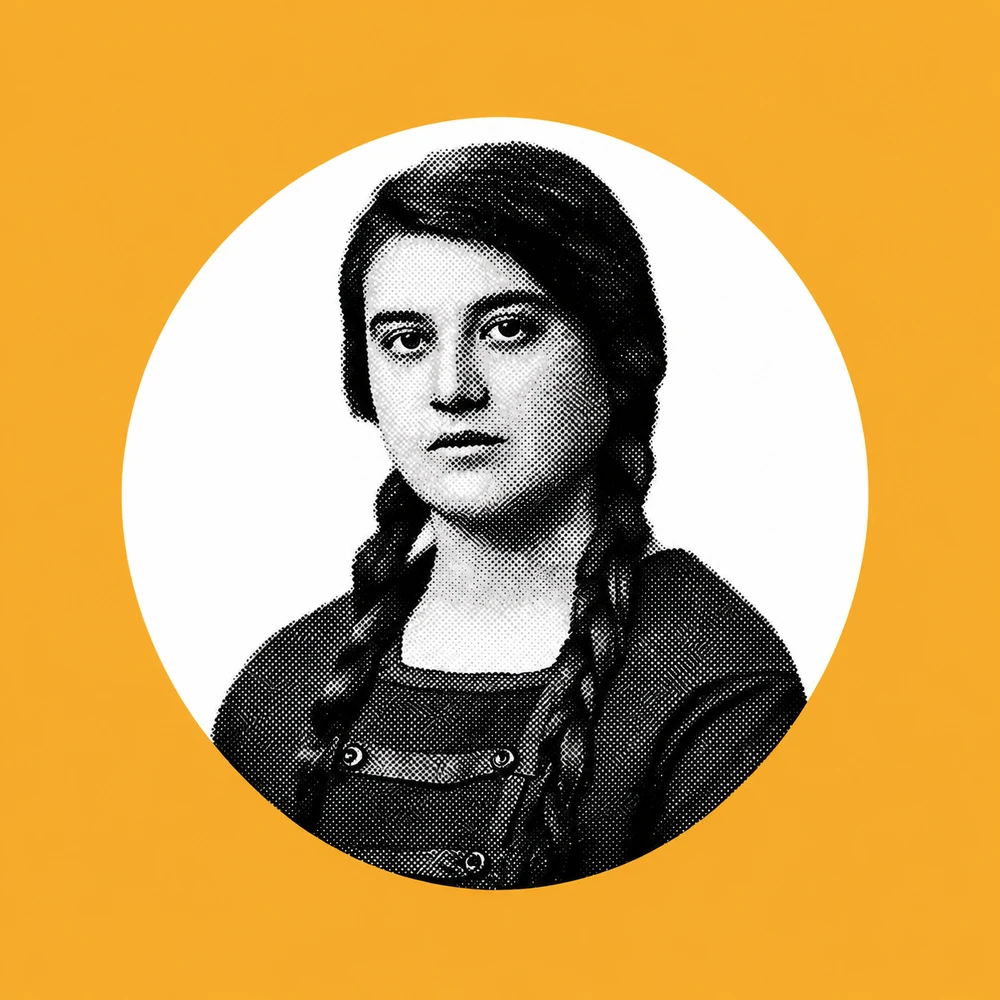
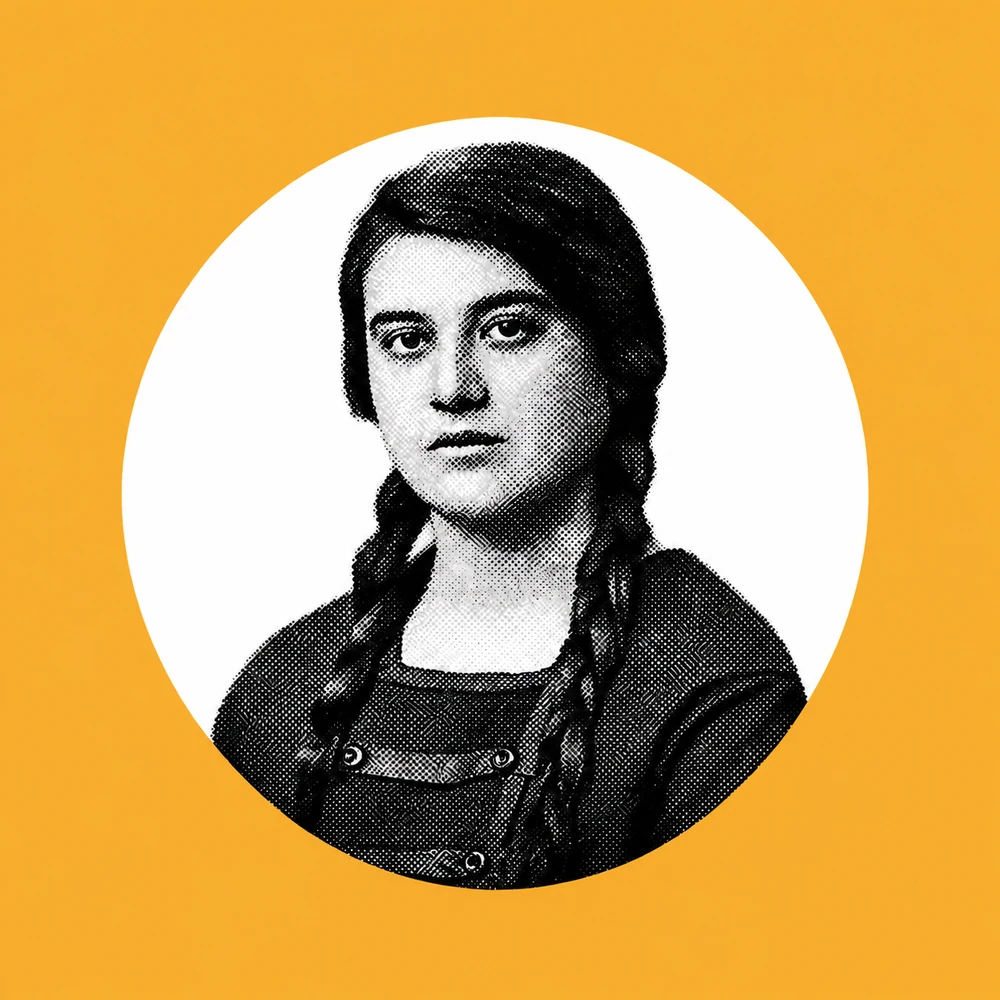
Publica la nueva imagen de El Libro Mágico de María Moliner

diff --git a/catalogo.html b/catalogo.html
@@ -14,7 +14,7 @@
       <a class="brand" href="index.html" aria-label="La Paralela · Ocio y Escuela. Inicio"><img src="assets/images/imagotipo.png" alt="" width="260" height="181"><span><strong>LA PARALELA</strong><small>OCIO Y ESCUELA</small></span></a>
       <button class="menu-toggle" type="button" aria-expanded="false" aria-controls="main-nav" hidden><span>Menú</span><span class="menu-lines" aria-hidden="true"></span></button>
       <nav class="main-nav" id="main-nav" aria-label="Navegación principal"><a href="index.html">Inicio</a><a href="asistencia-tecnica.html">Asistencia técnica</a><a href="catalogo.html" aria-current="page">Catálogo</a><a href="iniciativas.html">Iniciativas propias</a><a href="recursos-digitales.html">Recursos digitales</a><a href="la-paralela.html">La Paralela</a><a href="contacto.html">Contacto</a></nav>
-    </div></header><main id="contenido"><section class="page-hero page-hero--symbol-top container"><div><img class="section-hero-symbol" src="assets/icons/catalogo.svg" alt="" width="100" height="100"><h1 aria-label="Actividades para la dinamización local.">Actividades para<br>la dinamizaci<span class="ofelia-char ofelia-weight-800 ofelia-acute" style="--ofelia-width-adjust:-0.012000em;--ofelia-center:0.304688em;--ofelia-advance:0.612000em;--ofelia-half-box:0.660000em;"><span class="ofelia-source">ó</span><span class="ofelia-paint" aria-hidden="true" data-base="o"></span></span>n local.</h1><p class="lead">Actividades listas para incorporar a la programación de cada entidad, pensadas para distintos públicos y necesidades. Actividades que transforman espacios, trabajan valores y favorecen la participación vecinal.</p></div></section><section class="container catalog-list" aria-label="Actividades"><article class="catalog-story"><div class="catalog-media"><span class="catalog-item-number" aria-hidden="true">1.</span><img class="cover-art" src="assets/images/catalogo-mi-primera-aplicacion.webp" alt="Portada de Mi Primera Aplicación" loading="lazy" decoding="async" width="1000" height="1000"></div><div class="catalog-copy"><p class="eyebrow activity-type">Taller práctico</p><h2 aria-label="Mi Primera Aplicación"><a href="actividad-mi-primera-aplicacion.html">Mi Primera <span class="catalog-title-word">Aplicaci<span class="ofelia-char ofelia-weight-800 ofelia-acute" style="--ofelia-width-adjust:-0.012000em;--ofelia-center:0.304688em;--ofelia-advance:0.612000em;--ofelia-half-box:0.660000em;"><span class="ofelia-source">ó</span><span class="ofelia-paint" aria-hidden="true" data-base="o"></span></span>n</span></a></h2><p>Crear pequeñas aplicaciones con inteligencia artificial utilizando solo el teléfono móvil.</p><p class="price">Desde 329 € IVA incluido</p><a class="text-link" href="actividad-mi-primera-aplicacion.html">Ver la propuesta <span class="link-arrow" aria-hidden="true"></span></a></div></article><article class="catalog-story"><div class="catalog-media"><span class="catalog-item-number" aria-hidden="true">2.</span><img class="cover-art" src="assets/images/catalogo-escape-room.webp?v=d45742772ae4" alt="Retrato de María Moliner sobre fondo amarillo" loading="lazy" decoding="async" width="1000" height="1000"></div><div class="catalog-copy"><p class="eyebrow activity-type">Escape room en la biblioteca</p><h2 aria-label="El Libro Mágico de María Moliner"><a href="actividad-escape-room.html">El Libro <span class="catalog-title-word">M<span class="ofelia-char ofelia-weight-800 ofelia-acute" style="--ofelia-width-adjust:-0.044000em;--ofelia-center:0.296875em;--ofelia-advance:0.584000em;--ofelia-half-box:0.660000em;"><span class="ofelia-source">á</span><span class="ofelia-paint" aria-hidden="true" data-base="a"></span></span>gico</span> de <span class="catalog-title-word">Mar<span class="ofelia-char ofelia-weight-800 ofelia-acute ofelia-dotless" style="--ofelia-width-adjust:0.067000em;--ofelia-center:0.148438em;--ofelia-advance:0.303000em;--ofelia-half-box:0.660000em;"><span class="ofelia-source">í</span><span class="ofelia-paint" aria-hidden="true" data-base="i"></span></span>a</span> Moliner</a></h2><p>Diseñado específicamente para la animación a la lectura, la promoción del uso de las bibliotecas y la igualdad de género.</p><p class="price">Desde 550 € IVA incluido</p><a class="text-link" href="actividad-escape-room.html">Ver la propuesta <span class="link-arrow" aria-hidden="true"></span></a></div></article><article class="catalog-story"><div class="catalog-media"><span class="catalog-item-number" aria-hidden="true">3.</span><img class="cover-art" src="assets/images/catalogo-presente-perfecto.webp" alt="Portada de Presente Perfecto" loading="lazy" decoding="async" width="1000" height="1000"></div><div class="catalog-copy"><p class="eyebrow activity-type">Yincana intergeneracional</p><h2><a href="actividad-presente-perfecto.html">Presente Perfecto</a></h2><p>Diseñada para conectar a jóvenes y mayores a través de la música y los juegos propios de cada generación.</p><p class="price">Desde 880 € IVA incluido</p><a class="text-link" href="actividad-presente-perfecto.html">Ver la propuesta <span class="link-arrow" aria-hidden="true"></span></a></div></article><article class="catalog-story"><div class="catalog-media"><span class="catalog-item-number" aria-hidden="true">4.</span><img class="cover-art" src="assets/images/catalogo-calle-infierno.webp" alt="Portada de La Calle del Infierno" loading="lazy" decoding="async" width="1000" height="1000"></div><div class="catalog-copy"><p class="eyebrow activity-type">Instalación teatral interactiva</p><h2><a href="actividad-calle-infierno.html">La Calle del Infierno</a></h2><p>Espectáculo inmersivo de gran formato que recrea una feria tradicional mediante carpas de juego interactivo y pases de circo al estilo «freak show» para toda la familia.</p><p class="price">Desde 880 € IVA incluido</p><a class="text-link" href="actividad-calle-infierno.html">Ver la propuesta <span class="link-arrow" aria-hidden="true"></span></a></div></article></section><section class="container related" aria-labelledby="catalogo-pdf-titulo"><h2 id="catalogo-pdf-titulo">Las cuatro actividades en un PDF</h2><div class="dossier-links"><a class="button dossier-download" href="assets/documents/catalogo-actividades-la-paralela.pdf" download="Catalogo_Actividades_La_Paralela.pdf" type="application/pdf">Descargar catálogo <span aria-hidden="true">↓</span></a></div></section><section class="contact-band"><div class="container contact-band-inner"><div><p class="eyebrow">El siguiente paso</p><h2>Una propuesta para su municipio.</h2><p>Diseñamos actividades de dinamización con identidad propia, enfoque artístico y total adaptabilidad a las particularidades de cada municipio.</p></div><a class="button button-dark" href="contacto.html">Hablemos <span class="link-arrow" aria-hidden="true"></span></a></div></section></main><footer class="site-footer"><div class="container footer-main"><div>
+    </div></header><main id="contenido"><section class="page-hero page-hero--symbol-top container"><div><img class="section-hero-symbol" src="assets/icons/catalogo.svg" alt="" width="100" height="100"><h1 aria-label="Actividades para la dinamización local.">Actividades para<br>la dinamizaci<span class="ofelia-char ofelia-weight-800 ofelia-acute" style="--ofelia-width-adjust:-0.012000em;--ofelia-center:0.304688em;--ofelia-advance:0.612000em;--ofelia-half-box:0.660000em;"><span class="ofelia-source">ó</span><span class="ofelia-paint" aria-hidden="true" data-base="o"></span></span>n local.</h1><p class="lead">Actividades listas para incorporar a la programación de cada entidad, pensadas para distintos públicos y necesidades. Actividades que transforman espacios, trabajan valores y favorecen la participación vecinal.</p></div></section><section class="container catalog-list" aria-label="Actividades"><article class="catalog-story"><div class="catalog-media"><span class="catalog-item-number" aria-hidden="true">1.</span><img class="cover-art" src="assets/images/catalogo-mi-primera-aplicacion.webp" alt="Portada de Mi Primera Aplicación" loading="lazy" decoding="async" width="1000" height="1000"></div><div class="catalog-copy"><p class="eyebrow activity-type">Taller práctico</p><h2 aria-label="Mi Primera Aplicación"><a href="actividad-mi-primera-aplicacion.html">Mi Primera <span class="catalog-title-word">Aplicaci<span class="ofelia-char ofelia-weight-800 ofelia-acute" style="--ofelia-width-adjust:-0.012000em;--ofelia-center:0.304688em;--ofelia-advance:0.612000em;--ofelia-half-box:0.660000em;"><span class="ofelia-source">ó</span><span class="ofelia-paint" aria-hidden="true" data-base="o"></span></span>n</span></a></h2><p>Crear pequeñas aplicaciones con inteligencia artificial utilizando solo el teléfono móvil.</p><p class="price">Desde 329 € IVA incluido</p><a class="text-link" href="actividad-mi-primera-aplicacion.html">Ver la propuesta <span class="link-arrow" aria-hidden="true"></span></a></div></article><article class="catalog-story"><div class="catalog-media"><span class="catalog-item-number" aria-hidden="true">2.</span><img class="cover-art" src="assets/images/catalogo-escape-room.webp?v=9f42310c87f0" alt="Retrato de María Moliner sobre fondo amarillo" loading="lazy" decoding="async" width="1000" height="1000"></div><div class="catalog-copy"><p class="eyebrow activity-type">Escape room en la biblioteca</p><h2 aria-label="El Libro Mágico de María Moliner"><a href="actividad-escape-room.html">El Libro <span class="catalog-title-word">M<span class="ofelia-char ofelia-weight-800 ofelia-acute" style="--ofelia-width-adjust:-0.044000em;--ofelia-center:0.296875em;--ofelia-advance:0.584000em;--ofelia-half-box:0.660000em;"><span class="ofelia-source">á</span><span class="ofelia-paint" aria-hidden="true" data-base="a"></span></span>gico</span> de <span class="catalog-title-word">Mar<span class="ofelia-char ofelia-weight-800 ofelia-acute ofelia-dotless" style="--ofelia-width-adjust:0.067000em;--ofelia-center:0.148438em;--ofelia-advance:0.303000em;--ofelia-half-box:0.660000em;"><span class="ofelia-source">í</span><span class="ofelia-paint" aria-hidden="true" data-base="i"></span></span>a</span> Moliner</a></h2><p>Diseñado específicamente para la animación a la lectura, la promoción del uso de las bibliotecas y la igualdad de género.</p><p class="price">Desde 550 € IVA incluido</p><a class="text-link" href="actividad-escape-room.html">Ver la propuesta <span class="link-arrow" aria-hidden="true"></span></a></div></article><article class="catalog-story"><div class="catalog-media"><span class="catalog-item-number" aria-hidden="true">3.</span><img class="cover-art" src="assets/images/catalogo-presente-perfecto.webp" alt="Portada de Presente Perfecto" loading="lazy" decoding="async" width="1000" height="1000"></div><div class="catalog-copy"><p class="eyebrow activity-type">Yincana intergeneracional</p><h2><a href="actividad-presente-perfecto.html">Presente Perfecto</a></h2><p>Diseñada para conectar a jóvenes y mayores a través de la música y los juegos propios de cada generación.</p><p class="price">Desde 880 € IVA incluido</p><a class="text-link" href="actividad-presente-perfecto.html">Ver la propuesta <span class="link-arrow" aria-hidden="true"></span></a></div></article><article class="catalog-story"><div class="catalog-media"><span class="catalog-item-number" aria-hidden="true">4.</span><img class="cover-art" src="assets/images/catalogo-calle-infierno.webp" alt="Portada de La Calle del Infierno" loading="lazy" decoding="async" width="1000" height="1000"></div><div class="catalog-copy"><p class="eyebrow activity-type">Instalación teatral interactiva</p><h2><a href="actividad-calle-infierno.html">La Calle del Infierno</a></h2><p>Espectáculo inmersivo de gran formato que recrea una feria tradicional mediante carpas de juego interactivo y pases de circo al estilo «freak show» para toda la familia.</p><p class="price">Desde 880 € IVA incluido</p><a class="text-link" href="actividad-calle-infierno.html">Ver la propuesta <span class="link-arrow" aria-hidden="true"></span></a></div></article></section><section class="container related" aria-labelledby="catalogo-pdf-titulo"><h2 id="catalogo-pdf-titulo">Las cuatro actividades en un PDF</h2><div class="dossier-links"><a class="button dossier-download" href="assets/documents/catalogo-actividades-la-paralela.pdf" download="Catalogo_Actividades_La_Paralela.pdf" type="application/pdf">Descargar catálogo <span aria-hidden="true">↓</span></a></div></section><section class="contact-band"><div class="container contact-band-inner"><div><p class="eyebrow">El siguiente paso</p><h2>Una propuesta para su municipio.</h2><p>Diseñamos actividades de dinamización con identidad propia, enfoque artístico y total adaptabilidad a las particularidades de cada municipio.</p></div><a class="button button-dark" href="contacto.html">Hablemos <span class="link-arrow" aria-hidden="true"></span></a></div></section></main><footer class="site-footer"><div class="container footer-main"><div>
       <a class="footer-brand" href="index.html" aria-label="La Paralela · Ocio y Escuela. Inicio"><img src="assets/images/logo.png" alt="" width="600" height="612" loading="lazy" decoding="async"></a></div>
       <div><p class="eyebrow">Hablemos</p><a class="footer-email" href="mailto:hola@laparalelaocioyescuela.com">hola@laparalelaocioyescuela.com</a><a href="tel:+34744653513">744 65 35 13</a><p>Calle Roble, nº 15 · 14400 Pozoblanco, Córdoba</p></div>
       <div class="footer-socials"><!-- Iconos de Simple Icons (CC0 1.0) https://simpleicons.org/ --><a class="text-link" href="https://www.instagram.com/laparalelaocioyescuela/" target="_blank" rel="noopener noreferrer"><svg width="16" height="16" viewBox="0 0 24 24" fill="currentColor" aria-hidden="true" focusable="false"><path d="M7.0301.084c-1.2768.0602-2.1487.264-2.911.5634-.7888.3075-1.4575.72-2.1228 1.3877-.6652.6677-1.075 1.3368-1.3802 2.127-.2954.7638-.4956 1.6365-.552 2.914-.0564 1.2775-.0689 1.6882-.0626 4.947.0062 3.2586.0206 3.6671.0825 4.9473.061 1.2765.264 2.1482.5635 2.9107.308.7889.72 1.4573 1.388 2.1228.6679.6655 1.3365 1.0743 2.1285 1.38.7632.295 1.6361.4961 2.9134.552 1.2773.056 1.6884.069 4.9462.0627 3.2578-.0062 3.668-.0207 4.9478-.0814 1.28-.0607 2.147-.2652 2.9098-.5633.7889-.3086 1.4578-.72 2.1228-1.3881.665-.6682 1.0745-1.3378 1.3795-2.1284.2957-.7632.4966-1.636.552-2.9124.056-1.2809.0692-1.6898.063-4.948-.0063-3.2583-.021-3.6668-.0817-4.9465-.0607-1.2797-.264-2.1487-.5633-2.9117-.3084-.7889-.72-1.4568-1.3876-2.1228C21.2982 1.33 20.628.9208 19.8378.6165 19.074.321 18.2017.1197 16.9244.0645 15.6471.0093 15.236-.005 11.977.0014 8.718.0076 8.31.0215 7.0301.0839m.1402 21.6932c-1.17-.0509-1.8053-.2453-2.2287-.408-.5606-.216-.96-.4771-1.3819-.895-.422-.4178-.6811-.8186-.9-1.378-.1644-.4234-.3624-1.058-.4171-2.228-.0595-1.2645-.072-1.6442-.079-4.848-.007-3.2037.0053-3.583.0607-4.848.05-1.169.2456-1.805.408-2.2282.216-.5613.4762-.96.895-1.3816.4188-.4217.8184-.6814 1.3783-.9003.423-.1651 1.0575-.3614 2.227-.4171 1.2655-.06 1.6447-.072 4.848-.079 3.2033-.007 3.5835.005 4.8495.0608 1.169.0508 1.8053.2445 2.228.408.5608.216.96.4754 1.3816.895.4217.4194.6816.8176.9005 1.3787.1653.4217.3617 1.056.4169 2.2263.0602 1.2655.0739 1.645.0796 4.848.0058 3.203-.0055 3.5834-.061 4.848-.051 1.17-.245 1.8055-.408 2.2294-.216.5604-.4763.96-.8954 1.3814-.419.4215-.8181.6811-1.3783.9-.4224.1649-1.0577.3617-2.2262.4174-1.2656.0595-1.6448.072-4.8493.079-3.2045.007-3.5825-.006-4.848-.0608M16.953 5.5864A1.44 1.44 0 1 0 18.39 4.144a1.44 1.44 0 0 0-1.437 1.4424M5.8385 12.012c.0067 3.4032 2.7706 6.1557 6.173 6.1493 3.4026-.0065 6.157-2.7701 6.1506-6.1733-.0065-3.4032-2.771-6.1565-6.174-6.1498-3.403.0067-6.156 2.771-6.1496 6.1738M8 12.0077a4 4 0 1 1 4.008 3.9921A3.9996 3.9996 0 0 1 8 12.0077"/></svg>Instagram <span class="link-arrow" aria-hidden="true"></span></a><a class="text-link" href="https://www.facebook.com/share/177DT2UPGS/?mibextid=wwXIfr" target="_blank" rel="noopener noreferrer"><svg width="16" height="16" viewBox="0 0 24 24" fill="currentColor" aria-hidden="true" focusable="false"><path d="M9.101 23.691v-7.98H6.627v-3.667h2.474v-1.58c0-4.085 1.848-5.978 5.858-5.978.401 0 .955.042 1.468.103a8.68 8.68 0 0 1 1.141.195v3.325a8.623 8.623 0 0 0-.653-.036 26.805 26.805 0 0 0-.733-.009c-.707 0-1.259.096-1.675.309a1.686 1.686 0 0 0-.679.622c-.258.42-.374.995-.374 1.752v1.297h3.919l-.386 2.103-.287 1.564h-3.246v8.245C19.396 23.238 24 18.179 24 12.044c0-6.627-5.373-12-12-12s-12 5.373-12 12c0 5.628 3.874 10.35 9.101 11.647Z"/></svg>Facebook <span class="link-arrow" aria-hidden="true"></span></a><a class="text-link" href="https://youtube.com/@laparalelaocioyescuela" target="_blank" rel="noopener noreferrer"><svg width="16" height="16" viewBox="0 0 24 24" fill="currentColor" aria-hidden="true" focusable="false"><path d="M23.498 6.186a3.016 3.016 0 0 0-2.122-2.136C19.505 3.545 12 3.545 12 3.545s-7.505 0-9.377.505A3.017 3.017 0 0 0 .502 6.186C0 8.07 0 12 0 12s0 3.93.502 5.814a3.016 3.016 0 0 0 2.122 2.136c1.871.505 9.376.505 9.376.505s7.505 0 9.377-.505a3.015 3.015 0 0 0 2.122-2.136C24 15.93 24 12 24 12s0-3.93-.502-5.814zM9.545 15.568V8.432L15.818 12l-6.273 3.568z"/></svg>YouTube <span class="link-arrow" aria-hidden="true"></span></a></div></div>

diff --git a/actividad-escape-room.html b/actividad-escape-room.html
@@ -26,7 +26,7 @@
       </div>
       <p class="video-summary" id="summary-escape-room">Diseñado específicamente para la animación a la lectura, la promoción del uso de las bibliotecas y la igualdad de género.</p>
       <noscript><p><a href="assets/video/escape-room.mp4">Abrir vídeo: El Libro Mágico de María Moliner</a></p></noscript>
-    </div><img class="project-mark" src="assets/images/escape-room.webp?v=d45742772ae4" alt="Retrato de María Moliner sobre fondo amarillo" loading="lazy" decoding="async" width="1000" height="1000"></aside></article><section class="container related"><p class="eyebrow">Siga explorando</p><h2>Otras propuestas</h2><div class="related-links"><a class="text-link" href="actividad-mi-primera-aplicacion.html">Mi Primera Aplicación <span class="link-arrow" aria-hidden="true"></span></a><a class="text-link" href="actividad-presente-perfecto.html">Presente Perfecto <span class="link-arrow" aria-hidden="true"></span></a></div></section></main><footer class="site-footer"><div class="container footer-main"><div>
+    </div><img class="project-mark" src="assets/images/escape-room.webp?v=9f42310c87f0" alt="Retrato de María Moliner sobre fondo amarillo" loading="lazy" decoding="async" width="1000" height="1000"></aside></article><section class="container related"><p class="eyebrow">Siga explorando</p><h2>Otras propuestas</h2><div class="related-links"><a class="text-link" href="actividad-mi-primera-aplicacion.html">Mi Primera Aplicación <span class="link-arrow" aria-hidden="true"></span></a><a class="text-link" href="actividad-presente-perfecto.html">Presente Perfecto <span class="link-arrow" aria-hidden="true"></span></a></div></section></main><footer class="site-footer"><div class="container footer-main"><div>
       <a class="footer-brand" href="index.html" aria-label="La Paralela · Ocio y Escuela. Inicio"><img src="assets/images/logo.png" alt="" width="600" height="612" loading="lazy" decoding="async"></a></div>
       <div><p class="eyebrow">Hablemos</p><a class="footer-email" href="mailto:hola@laparalelaocioyescuela.com">hola@laparalelaocioyescuela.com</a><a href="tel:+34744653513">744 65 35 13</a><p>Calle Roble, nº 15 · 14400 Pozoblanco, Córdoba</p></div>
       <div class="footer-socials"><!-- Iconos de Simple Icons (CC0 1.0) https://simpleicons.org/ --><a class="text-link" href="https://www.instagram.com/laparalelaocioyescuela/" target="_blank" rel="noopener noreferrer"><svg width="16" height="16" viewBox="0 0 24 24" fill="currentColor" aria-hidden="true" focusable="false"><path d="M7.0301.084c-1.2768.0602-2.1487.264-2.911.5634-.7888.3075-1.4575.72-2.1228 1.3877-.6652.6677-1.075 1.3368-1.3802 2.127-.2954.7638-.4956 1.6365-.552 2.914-.0564 1.2775-.0689 1.6882-.0626 4.947.0062 3.2586.0206 3.6671.0825 4.9473.061 1.2765.264 2.1482.5635 2.9107.308.7889.72 1.4573 1.388 2.1228.6679.6655 1.3365 1.0743 2.1285 1.38.7632.295 1.6361.4961 2.9134.552 1.2773.056 1.6884.069 4.9462.0627 3.2578-.0062 3.668-.0207 4.9478-.0814 1.28-.0607 2.147-.2652 2.9098-.5633.7889-.3086 1.4578-.72 2.1228-1.3881.665-.6682 1.0745-1.3378 1.3795-2.1284.2957-.7632.4966-1.636.552-2.9124.056-1.2809.0692-1.6898.063-4.948-.0063-3.2583-.021-3.6668-.0817-4.9465-.0607-1.2797-.264-2.1487-.5633-2.9117-.3084-.7889-.72-1.4568-1.3876-2.1228C21.2982 1.33 20.628.9208 19.8378.6165 19.074.321 18.2017.1197 16.9244.0645 15.6471.0093 15.236-.005 11.977.0014 8.718.0076 8.31.0215 7.0301.0839m.1402 21.6932c-1.17-.0509-1.8053-.2453-2.2287-.408-.5606-.216-.96-.4771-1.3819-.895-.422-.4178-.6811-.8186-.9-1.378-.1644-.4234-.3624-1.058-.4171-2.228-.0595-1.2645-.072-1.6442-.079-4.848-.007-3.2037.0053-3.583.0607-4.848.05-1.169.2456-1.805.408-2.2282.216-.5613.4762-.96.895-1.3816.4188-.4217.8184-.6814 1.3783-.9003.423-.1651 1.0575-.3614 2.227-.4171 1.2655-.06 1.6447-.072 4.848-.079 3.2033-.007 3.5835.005 4.8495.0608 1.169.0508 1.8053.2445 2.228.408.5608.216.96.4754 1.3816.895.4217.4194.6816.8176.9005 1.3787.1653.4217.3617 1.056.4169 2.2263.0602 1.2655.0739 1.645.0796 4.848.0058 3.203-.0055 3.5834-.061 4.848-.051 1.17-.245 1.8055-.408 2.2294-.216.5604-.4763.96-.8954 1.3814-.419.4215-.8181.6811-1.3783.9-.4224.1649-1.0577.3617-2.2262.4174-1.2656.0595-1.6448.072-4.8493.079-3.2045.007-3.5825-.006-4.848-.0608M16.953 5.5864A1.44 1.44 0 1 0 18.39 4.144a1.44 1.44 0 0 0-1.437 1.4424M5.8385 12.012c.0067 3.4032 2.7706 6.1557 6.173 6.1493 3.4026-.0065 6.157-2.7701 6.1506-6.1733-.0065-3.4032-2.771-6.1565-6.174-6.1498-3.403.0067-6.156 2.771-6.1496 6.1738M8 12.0077a4 4 0 1 1 4.008 3.9921A3.9996 3.9996 0 0 1 8 12.0077"/></svg>Instagram <span class="link-arrow" aria-hidden="true"></span></a><a class="text-link" href="https://www.facebook.com/share/177DT2UPGS/?mibextid=wwXIfr" target="_blank" rel="noopener noreferrer"><svg width="16" height="16" viewBox="0 0 24 24" fill="currentColor" aria-hidden="true" focusable="false"><path d="M9.101 23.691v-7.98H6.627v-3.667h2.474v-1.58c0-4.085 1.848-5.978 5.858-5.978.401 0 .955.042 1.468.103a8.68 8.68 0 0 1 1.141.195v3.325a8.623 8.623 0 0 0-.653-.036 26.805 26.805 0 0 0-.733-.009c-.707 0-1.259.096-1.675.309a1.686 1.686 0 0 0-.679.622c-.258.42-.374.995-.374 1.752v1.297h3.919l-.386 2.103-.287 1.564h-3.246v8.245C19.396 23.238 24 18.179 24 12.044c0-6.627-5.373-12-12-12s-12 5.373-12 12c0 5.628 3.874 10.35 9.101 11.647Z"/></svg>Facebook <span class="link-arrow" aria-hidden="true"></span></a><a class="text-link" href="https://youtube.com/@laparalelaocioyescuela" target="_blank" rel="noopener noreferrer"><svg width="16" height="16" viewBox="0 0 24 24" fill="currentColor" aria-hidden="true" focusable="false"><path d="M23.498 6.186a3.016 3.016 0 0 0-2.122-2.136C19.505 3.545 12 3.545 12 3.545s-7.505 0-9.377.505A3.017 3.017 0 0 0 .502 6.186C0 8.07 0 12 0 12s0 3.93.502 5.814a3.016 3.016 0 0 0 2.122 2.136c1.871.505 9.376.505 9.376.505s7.505 0 9.377-.505a3.015 3.015 0 0 0 2.122-2.136C24 15.93 24 12 24 12s0-3.93-.502-5.814zM9.545 15.568V8.432L15.818 12l-6.273 3.568z"/></svg>YouTube <span class="link-arrow" aria-hidden="true"></span></a></div></div>
